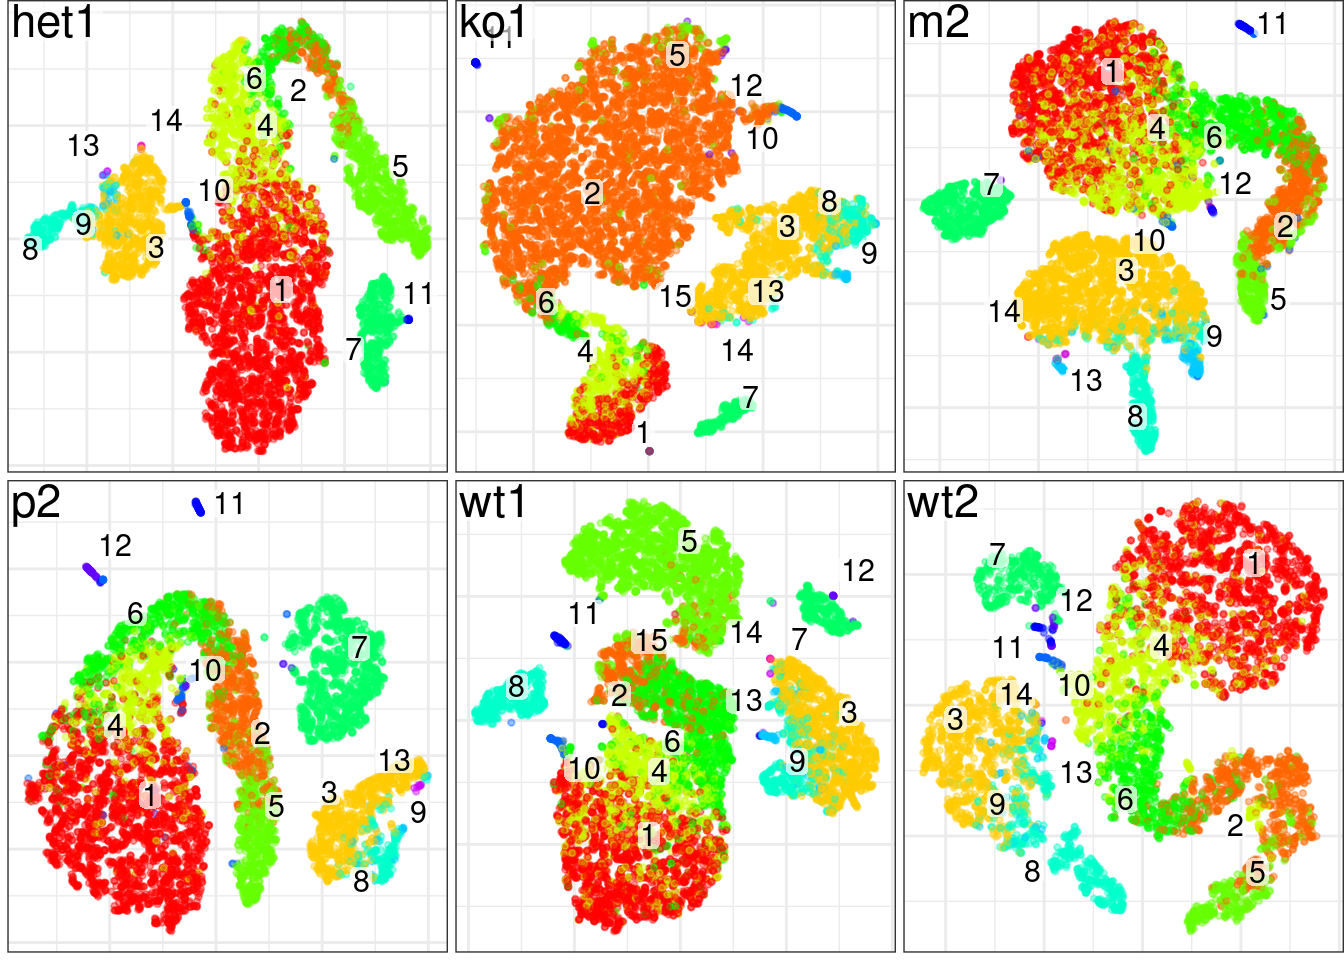
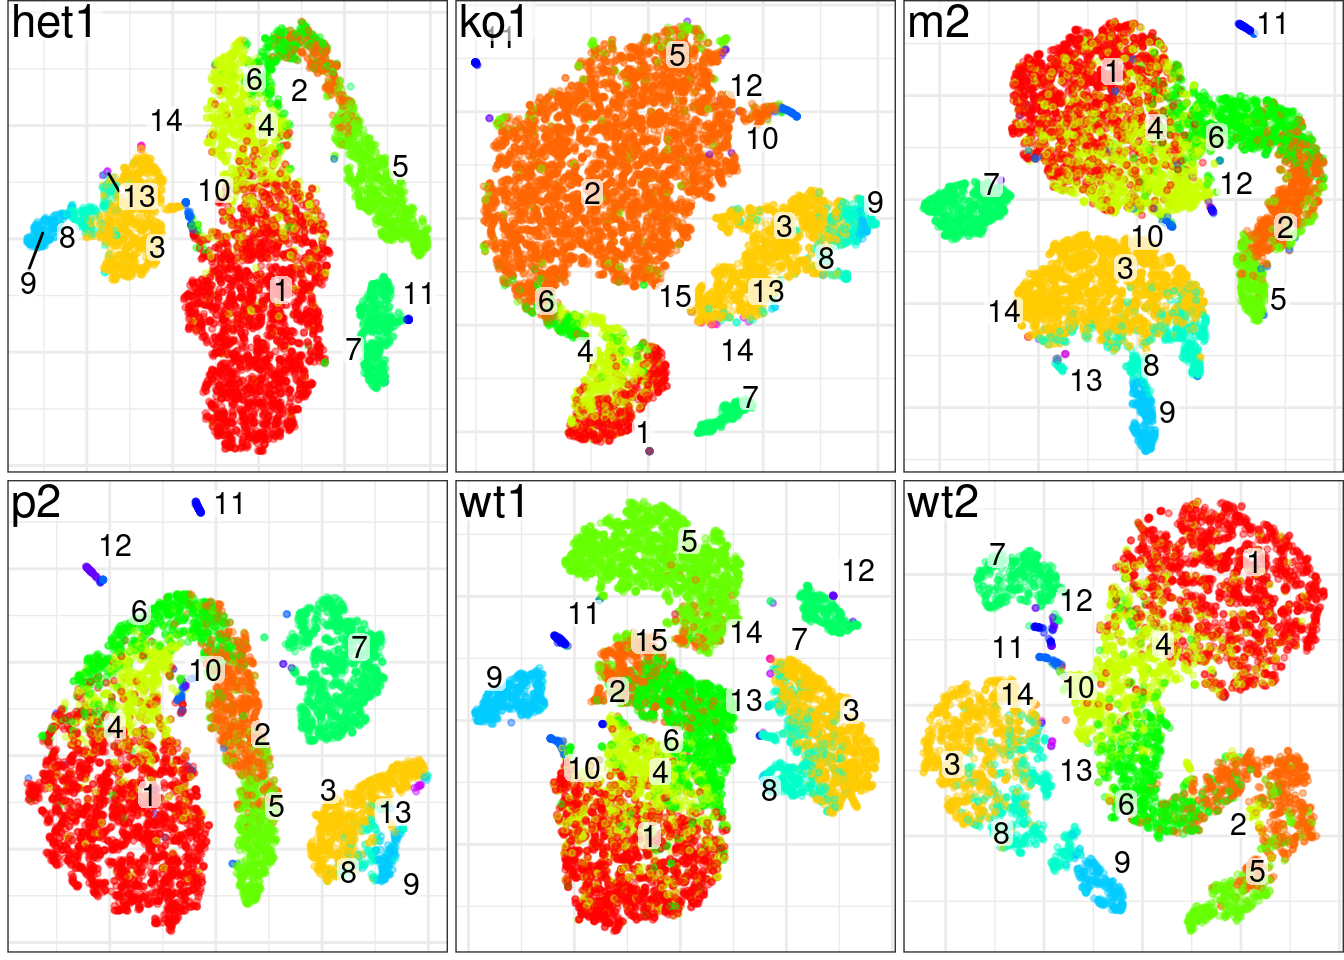
Build site.

diff --git a/docs/analysiswithconos.html b/docs/analysiswithconos.html
@@ -432,7 +432,7 @@ div.tocify {
 <div class="tab-content">
 <div id="summary" class="tab-pane fade in active">
 <p>
-<strong>Last updated:</strong> 2021-01-09
+<strong>Last updated:</strong> 2021-01-10
 </p>
 <p>
 <strong>Checks:</strong> <span class="glyphicon glyphicon-ok text-success" aria-hidden="true"></span> 7 <span class="glyphicon glyphicon-exclamation-sign text-danger" aria-hidden="true"></span> 0
@@ -523,16 +523,16 @@ This reproducible <a href="http://rmarkdown.rstudio.com">R Markdown</a> analysis
 <div class="panel panel-default">
 <div class="panel-heading">
 <p class="panel-title">
-<a data-toggle="collapse" data-parent="#workflowr-checks" href="#strongRepositoryversionstrongahrefhttpsgithubcomjeprobprojectscrnaseqintegrationcomparisontreecd2926fd6c149e98e54ccf07dc06f74f53d031a6targetblankcd2926fa"> <span class="glyphicon glyphicon-ok text-success" aria-hidden="true"></span> <strong>Repository version:</strong> <a href="https://github.com/jeprob/project-scrnaseq-integration-comparison/tree/cd2926fd6c149e98e54ccf07dc06f74f53d031a6" target="_blank">cd2926f</a> </a>
+<a data-toggle="collapse" data-parent="#workflowr-checks" href="#strongRepositoryversionstrongahrefhttpsgithubcomjeprobprojectscrnaseqintegrationcomparisontreea724d2944d81ed937d59a789a8a6e9af38745b57targetblanka724d29a"> <span class="glyphicon glyphicon-ok text-success" aria-hidden="true"></span> <strong>Repository version:</strong> <a href="https://github.com/jeprob/project-scrnaseq-integration-comparison/tree/a724d2944d81ed937d59a789a8a6e9af38745b57" target="_blank">a724d29</a> </a>
 </p>
 </div>
[2 lines of base64/hex data omitted]
 <div class="panel-body">
 <p>
 Great! You are using Git for version control. Tracking code development and connecting the code version to the results is critical for reproducibility.
 </p>
 <p>
-The results in this page were generated with repository version <a href="https://github.com/jeprob/project-scrnaseq-integration-comparison/tree/cd2926fd6c149e98e54ccf07dc06f74f53d031a6" target="_blank">cd2926f</a>. See the <em>Past versions</em> tab to see a history of the changes made to the R Markdown and HTML files.
+The results in this page were generated with repository version <a href="https://github.com/jeprob/project-scrnaseq-integration-comparison/tree/a724d2944d81ed937d59a789a8a6e9af38745b57" target="_blank">a724d29</a>. See the <em>Past versions</em> tab to see a history of the changes made to the R Markdown and HTML files.
 </p>
 <p>
 Note that you need to be careful to ensure that all relevant files for the analysis have been committed to Git prior to generating the results (you can use <code>wflow_publish</code> or <code>wflow_git_commit</code>). workflowr only checks the R Markdown file, but you know if there are other scripts or data files that it depends on. Below is the status of the Git repository when the results were generated:
@@ -541,6 +541,9 @@ Note that you need to be careful to ensure that all relevant files for the analy
 Ignored files:
     Ignored:    .RData
     Ignored:    .Rhistory
+
+Unstaged changes:
+    Modified:   analysis/analysiswithseurat.Rmd
 
 </code></pre>
 <p>
@@ -579,6 +582,40 @@ Message
 </tr>
 </thead>
 <tbody>
+<tr>
+<td>
+Rmd
+</td>
+<td>
+<a href="https://github.com/jeprob/project-scrnaseq-integration-comparison/blob/a724d2944d81ed937d59a789a8a6e9af38745b57/analysis/analysiswithconos.Rmd" target="_blank">a724d29</a>
+</td>
+<td>
+jeprob
+</td>
+<td>
+2021-01-10
+</td>
+<td>
+wflow_publish(“analysis/analysiswithconos.Rmd”)
+</td>
+</tr>
+<tr>
+<td>
+html
+</td>
+<td>
+<a href="https://rawcdn.githack.com/jeprob/project-scrnaseq-integration-comparison/834cd602bed220eb4cf670252bdc91fb4eb0e7d4/docs/analysiswithconos.html" target="_blank">834cd60</a>
+</td>
+<td>
+jeprob
+</td>
+<td>
+2021-01-09
+</td>
+<td>
+Build site.
+</td>
+</tr>
 <tr>
 <td>
 Rmd
@@ -696,7 +733,8 @@ wflow_publish(“analysis/analysiswithconos.Rmd”)
 <pre class="r"><code>library(conos)
 library(dplyr)
 library(pagoda2)
-library(Seurat) </code></pre>
+library(Seurat) 
+set.seed(333)</code></pre>
 </div>
 <div id="data-readin" class="section level2">
 <h2>Data readin</h2>
@@ -881,6 +919,17 @@ Date
 <tbody>
 <tr>
 <td>
+<a href="https://github.com/jeprob/project-scrnaseq-integration-comparison/blob/834cd602bed220eb4cf670252bdc91fb4eb0e7d4/docs/figure/analysiswithconos.Rmd/unnamed-chunk-9-1.png" target="_blank">834cd60</a>
+</td>
+<td>
+jeprob
+</td>
+<td>
+2021-01-09
+</td>
+</tr>
+<tr>
+<td>
 <a href="https://github.com/jeprob/project-scrnaseq-integration-comparison/blob/527b911191baa178ca9c345b99fe35b3191fe85a/docs/figure/analysiswithconos.Rmd/unnamed-chunk-9-1.png" target="_blank">527b911</a>
 </td>
 <td>
@@ -941,6 +990,17 @@ Date
 </tr>
 </thead>
 <tbody>
+<tr>
+<td>
+<a href="https://github.com/jeprob/project-scrnaseq-integration-comparison/blob/834cd602bed220eb4cf670252bdc91fb4eb0e7d4/docs/figure/analysiswithconos.Rmd/unnamed-chunk-10-1.png" target="_blank">834cd60</a>
+</td>
+<td>
+jeprob
+</td>
+<td>
+2021-01-09
+</td>
+</tr>
 <tr>
 <td>
 <a href="https://github.com/jeprob/project-scrnaseq-integration-comparison/blob/527b911191baa178ca9c345b99fe35b3191fe85a/docs/figure/analysiswithconos.Rmd/unnamed-chunk-10-1.png" target="_blank">527b911</a>
@@ -1006,6 +1066,17 @@ Date
 <tbody>
 <tr>
 <td>
+<a href="https://github.com/jeprob/project-scrnaseq-integration-comparison/blob/834cd602bed220eb4cf670252bdc91fb4eb0e7d4/docs/figure/analysiswithconos.Rmd/unnamed-chunk-11-1.png" target="_blank">834cd60</a>
+</td>
+<td>
+jeprob
+</td>
+<td>
+2021-01-09
+</td>
+</tr>
+<tr>
+<td>
 <a href="https://github.com/jeprob/project-scrnaseq-integration-comparison/blob/527b911191baa178ca9c345b99fe35b3191fe85a/docs/figure/analysiswithconos.Rmd/unnamed-chunk-11-1.png" target="_blank">527b911</a>
 </td>
 <td>
@@ -1066,6 +1137,17 @@ Date
 </tr>
 </thead>
 <tbody>
+<tr>
+<td>
+<a href="https://github.com/jeprob/project-scrnaseq-integration-comparison/blob/834cd602bed220eb4cf670252bdc91fb4eb0e7d4/docs/figure/analysiswithconos.Rmd/unnamed-chunk-12-1.png" target="_blank">834cd60</a>
+</td>
+<td>
+jeprob
+</td>
+<td>
+2021-01-09
+</td>
+</tr>
 <tr>
 <td>
 <a href="https://github.com/jeprob/project-scrnaseq-integration-comparison/blob/527b911191baa178ca9c345b99fe35b3191fe85a/docs/figure/analysiswithconos.Rmd/unnamed-chunk-12-1.png" target="_blank">527b911</a>
